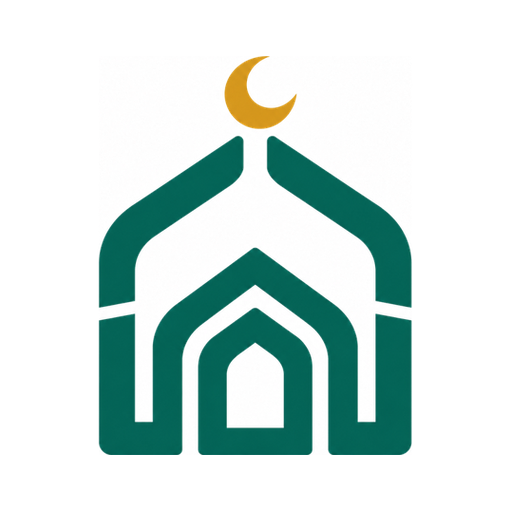
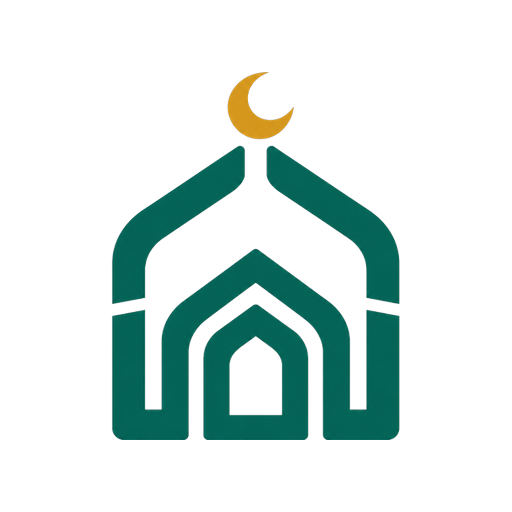
Add files via upload

diff --git a/profil-ui.js b/profil-ui.js
@@ -19,7 +19,7 @@ import { READING_SIZES, readingPrefs, saveReadingPrefs, lastRead } from './quran
 import { listSurahs } from './quran-service.js';
 import { legalView } from './page-ui.js';
 
-export const APP_VERSION = 'v145';
+export const APP_VERSION = 'v146';
 // Semua data yang disimpan di perangkat (tanpa sesi masuk). Dihapus lewat "Hapus data di perangkat ini".
 const DEVICE_KEYS = ['baituna.dzikir.v1', 'baituna.tasbih.v1', 'baituna.sound.v1', 'baituna.loc.v1', 'baituna.doa.fav.v1', 'baituna.sunnah.v1', 'baituna.belajar.v1', 'baituna.asma.v1', 'baituna.zakat.v1', 'baituna.tracker.v1', 'baituna.quranpref.v1', 'baituna.qari.v1', 'baituna.quranlast.v1', 'baituna.quranpage.v1', 'baituna.mushaftheme.v1', 'baituna.mushafawake.v1', 'baituna.mushafswipe.v1', 'baituna.quranmode.v1', 'baituna.notif.v1', 'baituna.notifseen.v1', 'baituna.ramadan.v1', 'baituna.ramadancache.v1', 'baituna.adzanlib.v1', 'baituna.push.v1', 'baituna.qa.v1', 'baituna.qa.vote.v1', 'baituna.books.v1', 'baituna.brand.v1'];
 const SIZE_LABEL = ['Kecil', 'Sedang', 'Besar', 'Lebih besar', 'Terbesar'];

diff --git a/service-worker.js b/service-worker.js
@@ -1,7 +1,7 @@
 // BAITUNA - service-worker.js
 // Cache aset statis agar aplikasi cepat dan bisa dibuka offline (hanya tampilan dasar).
 // Data Supabase TIDAK pernah disimpan di cache.
-const CACHE = 'baituna-static-v119';
+const CACHE = 'baituna-static-v120';
 const ASSETS = [
   './', 'index.html', 'style.css', 'components.css', 'responsive.css',
   'config.js', 'supabase.js', 'auth.js', 'router.js', 'permissions.js', 'ui.js',

diff --git a/README.md b/README.md
@@ -563,3 +563,6 @@ Saat halaman mushaf digeser dari tengah halaman, posisi gulir kini dipertahankan
 
 ## Tambahan v145
 - Splash BAITUNA selalu memakai latar langit + ilustrasi masjid (seperti di iPhone), tidak lagi berganti ke foto latar di Android.
+
+## Tambahan v146
+- Layar pembuka bawaan Android: ikon "any" (192 dan 512) dibuat transparan sehingga logo menempel di latar krem; ikon maskable (peluncur) tetap berlatar putih. Latar manifest kembali krem.
